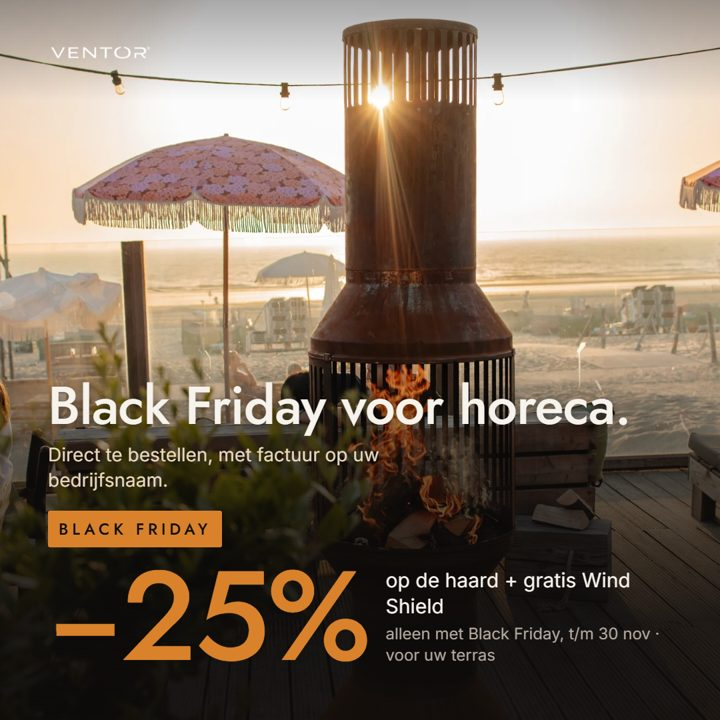
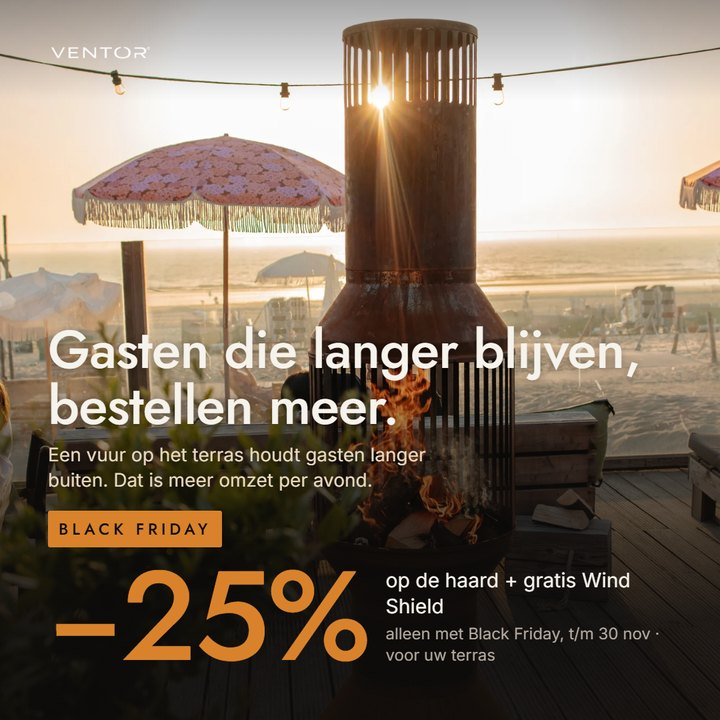
Meta voor Google; horeca-ads met omzet-hook (h04, h10 nieuw, teksten)

Changed region(s): [[0.0611, 0.4583, 0.8861, 0.7028]]

diff --git a/site/index.html b/site/index.html
@@ -335,7 +335,7 @@ html.verlopen .verlopen-melding{display:flex;min-height:100vh;align-items:center
 </head>
 <body>
 <div class="verlopen-melding"><p>Deze preview is verlopen.</p></div>
-<div class="top"><div class="wrap"><b>VENTOR®</b><nav><a href="#inhoud">Inhoud</a><a href="#wie">Wie koopt het</a><a href="#paginas">Salespages</a><a href="#google">Google Ads</a><a href="#meta">Meta Ads</a><a href="#planning">Planning</a></nav><span class="bf">Black Friday · 1 t/m 30 nov</span></div></div>
+<div class="top"><div class="wrap"><b>VENTOR®</b><nav><a href="#inhoud">Inhoud</a><a href="#wie">Wie koopt het</a><a href="#paginas">Salespages</a><a href="#meta">Meta Ads</a><a href="#google">Google Ads</a><a href="#planning">Planning</a></nav><span class="bf">Black Friday · 1 t/m 30 nov</span></div></div>
 
 <main>
 <header class="held"><div class="wrap">
@@ -351,8 +351,8 @@ html.verlopen .verlopen-melding{display:flex;min-height:100vh;align-items:center
   <div class="inhoud">
     <a href="#wie" class="ih"><span>1</span><b>Wie koopt het en waarom?</b><small>De twee kopers en wat ze drijft</small></a>
     <a href="#paginas" class="ih"><span>2</span><b>CRO: nieuwe salespages Black Friday</b><small>Consument en horeca</small></a>
-    <a href="#google" class="ih"><span>3</span><b>Google Ads</b><small>€2.000 · mensen die al zoeken</small></a>
-    <a href="#meta" class="ih"><span>4</span><b>Meta Ads</b><small>€4.000 · Facebook en Instagram</small></a>
+    <a href="#meta" class="ih"><span>3</span><b>Meta Ads</b><small>€4.000 · Facebook en Instagram</small></a>
+    <a href="#google" class="ih"><span>4</span><b>Google Ads</b><small>€2.000 · mensen die al zoeken</small></a>
     <a href="#planning" class="ih"><span>5</span><b>Planning</b><small>Feedback, start, evaluatie</small></a>
   </div>
 </div></section>
@@ -393,8 +393,44 @@ html.verlopen .verlopen-melding{display:flex;min-height:100vh;align-items:center
   </div>
 </div></section>
 
+<section id="meta"><div class="wrap">
+  <span class="label">3 · Meta Ads</span>
+  <h2>Meta Ads: mensen bereiken die nog niet zoeken</h2>
+  <p class="intro">Met Meta Ads op Facebook en Instagram bereiken we mensen in de doelgroep die nog niet actief zoeken. Ze zien de haard en de Black Friday-actie in hun feed, stories en reels. Zo maken we nieuwe vraag, en een deel daarvan zoekt later via Google verder. We starten met €4.000 voor november. Werkt een advertentie goed, dan verhogen we het budget: ook deze campagne is schaalbaar.</p>
+  <div class="chips" style="margin:-8px 0 8px"><span class="chip"><b>€4.000</b> advertentiebudget</span><span class="chip">Schaalbaar</span><span class="chip">2 t/m 30 november</span><span class="chip">Facebook en Instagram</span></div>
+  <div class="camps2">
+    <div class="blok"><span class="label">Voorstel · consument</span><h3>De Gastheer en de upgrader</h3><div class="bud"><b>€3.000</b><span>±€103 per dag</span></div><p>10 beeldadvertenties en 3 video's, in feed, stories en reels.</p></div>
+    <div class="blok"><span class="label">Voorstel · horeca</span><h3>De terras-ondernemer</h3><div class="bud"><b>€1.000</b><span>±€34 per dag</span></div><p>10 beeldadvertenties en 2 video's, gericht op horeca-ondernemers. De hook: gasten blijven langer zitten, en dat is meer omzet.</p></div>
+    <div class="blok donker"><span class="label">Schaalbaar</span><h3>Meer budget naar wat verkoopt</h3><p>Elke paar dagen kijken we naar de kosten per verkoop. De advertenties die het best verkopen krijgen meer budget, de rest zetten we uit.</p></div>
+  </div>
+</div></section>
+
+<section id="consument-ads" class="adsectie"><div class="wrap">
+  <span class="label">3 · Meta Ads · Consument</span>
+  <h2>Alle advertenties consument</h2>
+  <p class="intro">Tien beeldadvertenties met elk een eigen hook, steeds de haard groot in beeld, plus drie video’s van de eigen Instagram-reels. Zo zien ze eruit in de feed, met de echte tekst, kop en knop. Klik op een advertentie om hem groot te bekijken.</p>
+  <h3 class="sub">Feed <span>10 beeldadvertenties · 1:1</span></h3>
+  <div class="ads" id="consument-feed"></div>
+  <h3 class="sub">Stories en Reels <span>dezelfde 10 advertenties · 9:16</span></h3>
+  <div class="stories" id="consument-stories"></div>
+  <h3 class="sub">Video <span>3 video-advertenties · 9:16 · originele muziek</span></h3>
+  <div class="ads vads" id="consument-video"></div>
+</div></section>
+
+<section id="horeca-ads" class="adsectie"><div class="wrap">
+  <span class="label">3 · Meta Ads · Horeca</span>
+  <h2>Alle advertenties horeca</h2>
+  <p class="intro">Dezelfde opbouw voor horeca-ondernemers: tien beeldadvertenties in u-vorm en twee video’s van terrassen. Klik op een advertentie om hem groot te bekijken.</p>
+  <h3 class="sub">Feed <span>10 beeldadvertenties · 1:1</span></h3>
+  <div class="ads" id="horeca-feed"></div>
+  <h3 class="sub">Stories en Reels <span>dezelfde 10 advertenties · 9:16</span></h3>
+  <div class="stories" id="horeca-stories"></div>
+  <h3 class="sub">Video <span>2 video-advertenties · 9:16 · originele muziek</span></h3>
+  <div class="ads vads" id="horeca-video"></div>
+</div></section>
+
 <section id="google"><div class="wrap">
-  <span class="label">3 · Google Ads</span>
+  <span class="label">4 · Google Ads</span>
   <h2>Google Ads: direct verkeer van mensen die al zoeken</h2>
   <p class="intro">Met Google Ads staan we bovenaan bij mensen die nu al zoeken naar een buitenhaard, tuinhaard of houtkachel voor buiten. Zij hebben de koopbeslissing al half genomen, dus dit is direct verkeer met koopintentie. Elke advertentie draait om de Black Friday-actie. We starten met €2.000 voor november. Zijn de kosten per verkoop goed, dan verhogen we het budget: de campagne is schaalbaar.</p>
   <div class="chips" style="margin:-8px 0 8px"><span class="chip"><b>€2.000</b> advertentiebudget</span><span class="chip">Schaalbaar</span><span class="chip">2 t/m 30 november</span><span class="chip">3 campagnes</span><span class="chip">Klik vanaf <b>€0,40</b></span></div>
@@ -501,42 +537,6 @@ html.verlopen .verlopen-melding{display:flex;min-height:100vh;align-items:center
   </div>
 </div></section>
 
-<section id="meta"><div class="wrap">
-  <span class="label">4 · Meta Ads</span>
-  <h2>Meta Ads: mensen bereiken die nog niet zoeken</h2>
-  <p class="intro">Met Meta Ads op Facebook en Instagram bereiken we mensen in de doelgroep die nog niet actief zoeken. Ze zien de haard en de Black Friday-actie in hun feed, stories en reels. Zo maken we nieuwe vraag, en een deel daarvan zoekt later via Google verder. We starten met €4.000 voor november. Werkt een advertentie goed, dan verhogen we het budget: ook deze campagne is schaalbaar.</p>
-  <div class="chips" style="margin:-8px 0 8px"><span class="chip"><b>€4.000</b> advertentiebudget</span><span class="chip">Schaalbaar</span><span class="chip">2 t/m 30 november</span><span class="chip">Facebook en Instagram</span></div>
-  <div class="camps2">
-    <div class="blok"><span class="label">Voorstel · consument</span><h3>De Gastheer en de upgrader</h3><div class="bud"><b>€3.000</b><span>±€103 per dag</span></div><p>10 beeldadvertenties en 3 video's, in feed, stories en reels.</p></div>
-    <div class="blok"><span class="label">Voorstel · horeca</span><h3>De terras-ondernemer</h3><div class="bud"><b>€1.000</b><span>±€34 per dag</span></div><p>10 beeldadvertenties en 2 video's, gericht op horeca-ondernemers.</p></div>
-    <div class="blok donker"><span class="label">Schaalbaar</span><h3>Meer budget naar wat verkoopt</h3><p>Elke paar dagen kijken we naar de kosten per verkoop. De advertenties die het best verkopen krijgen meer budget, de rest zetten we uit.</p></div>
-  </div>
-</div></section>
-
-<section id="consument-ads" class="adsectie"><div class="wrap">
-  <span class="label">4 · Meta Ads · Consument</span>
-  <h2>Alle advertenties consument</h2>
-  <p class="intro">Tien beeldadvertenties met elk een eigen hook, steeds de haard groot in beeld, plus drie video’s van de eigen Instagram-reels. Zo zien ze eruit in de feed, met de echte tekst, kop en knop. Klik op een advertentie om hem groot te bekijken.</p>
-  <h3 class="sub">Feed <span>10 beeldadvertenties · 1:1</span></h3>
-  <div class="ads" id="consument-feed"></div>
-  <h3 class="sub">Stories en Reels <span>dezelfde 10 advertenties · 9:16</span></h3>
-  <div class="stories" id="consument-stories"></div>
-  <h3 class="sub">Video <span>3 video-advertenties · 9:16 · originele muziek</span></h3>
-  <div class="ads vads" id="consument-video"></div>
-</div></section>
-
-<section id="horeca-ads" class="adsectie"><div class="wrap">
-  <span class="label">4 · Meta Ads · Horeca</span>
-  <h2>Alle advertenties horeca</h2>
-  <p class="intro">Dezelfde opbouw voor horeca-ondernemers: tien beeldadvertenties in u-vorm en twee video’s van terrassen. Klik op een advertentie om hem groot te bekijken.</p>
-  <h3 class="sub">Feed <span>10 beeldadvertenties · 1:1</span></h3>
-  <div class="ads" id="horeca-feed"></div>
-  <h3 class="sub">Stories en Reels <span>dezelfde 10 advertenties · 9:16</span></h3>
-  <div class="stories" id="horeca-stories"></div>
-  <h3 class="sub">Video <span>2 video-advertenties · 9:16 · originele muziek</span></h3>
-  <div class="ads vads" id="horeca-video"></div>
-</div></section>
-
 
 
 <section id="planning"><div class="wrap">
@@ -556,7 +556,7 @@ html.verlopen .verlopen-melding{display:flex;min-height:100vh;align-items:center
 <footer><div class="wrap">Demo van Create &amp; Convert voor VENTOR® · concept, niet de echte winkel · online tot 22 november 2026 · <a href="https://claude.ai/artifact/CAF8osN9v2TcaTqFJEgg1Q">De klantpresentatie</a></div></footer>
 
 <script>
-var D={"consument": {"feed": [{"id": "c01", "hook": "Om 23:00 zit iedereen nog buiten.", "kop": "Black Friday: 25% korting", "beschr": "+ gratis Wind Shield", "tekst": "Het eten is op, de glazen zijn nog vol, en niemand wil naar binnen. De VENTOR® Original zet het vuur op ooghoogte, midden in je tuin. Alleen met Black Friday: 25% korting op de haard, en het Wind Shield krijg je er gratis bij. T/m 30 november."}, {"id": "c02", "hook": "Ruiken je kleren na een avond bij de vuurkorf?", "kop": "−25% op vuur zonder rook in je gezicht", "beschr": "+ gratis Wind Shield", "tekst": "Ruiken je kleren na een avond bij de vuurkorf? Dat komt doordat de rook op zithoogte vrijkomt. Bij de VENTOR® gaat hij door een schoorsteen van 40 cm breed en komt hij er op 220 cm uit, boven de hoofden. Alleen met Black Friday: −25% en een gratis Wind Shield."}, {"id": "c03", "hook": "Het vuur op ooghoogte. Iedereen schuift aan.", "kop": "Vuur op ooghoogte, nu −25%", "beschr": "Alleen met Black Friday", "tekst": "Bij een vuurkorf kijk je naar beneden. Bij de VENTOR® Original zit het vuur op ooghoogte, achter slanke lamellen, dus zittend en staand kijk je in de vlammen. Alleen met Black Friday: 25% korting + gratis Wind Shield."}, {"id": "c04", "hook": "De verlengde pijp zit er al op.", "kop": "De pijp zit er al op · −25%", "beschr": "+ gratis Wind Shield", "tekst": "Wie een tuinhaard heeft, kent het: een pijp erbij kopen omdat hij niet goed trekt. Bij de VENTOR® zit de schoorsteen er standaard op, 40 cm breed en tot 220 cm hoog. Alleen met Black Friday: 25% korting op de haard, met het Wind Shield gratis."}, {"id": "c05", "hook": "Je tuin is af. Op één ding na.", "kop": "Je tuin is af. Bijna.", "beschr": "−25% + gratis Wind Shield", "tekst": "Bestrating ligt, de lounge staat, de verlichting doet het. Wat ontbreekt is een plek waar iedereen 's avonds vanzelf gaat zitten. De VENTOR® Original: het vuur op ooghoogte, midden in je tuin. Nu 25% Black Friday-korting + gratis Wind Shield."}, {"id": "c06", "hook": "Met de jaren alleen maar mooier.", "kop": "Mooier met de jaren · −25%", "beschr": "Alleen t/m 30 november", "tekst": "De VENTOR® Original is van cortenstaal. Hij krijgt een warme roestkleur die elk jaar mooier wordt, en schilderen of behandelen hoeft nooit. Alleen met Black Friday: 25% korting, met het Wind Shield gratis erbij. T/m 30 november."}, {"id": "c07", "hook": "Het middelpunt van elke avond.", "kop": "Het middelpunt van je tuin · −25%", "beschr": "+ gratis Wind Shield", "tekst": "220 cm hoog, het vuur op ooghoogte en van alle kanten te zien. De VENTOR® Original is het middelpunt van elke avond in de tuin. Alleen met Black Friday: −25% + gratis Wind Shield."}, {"id": "c08", "hook": "Vuur van alle kanten. Geen achterkant.", "kop": "Vuur van alle kanten · −25%", "beschr": "+ gratis Wind Shield", "tekst": "Geen achterkant, geen slechte plek. Slanke lamellen rondom de vuurkamer, dus vanuit elke stoel zie je de vlammen. Alleen met Black Friday: 25% korting op de VENTOR® Original + gratis Wind Shield."}, {"id": "c09", "hook": "Dit is geen vuurkorf.", "kop": "Dit is geen vuurkorf · −25%", "beschr": "+ gratis Wind Shield", "tekst": "Een vuurkorf staat op de grond en de rook gaat waar de wind hem heen blaast. De VENTOR® Original is een buitenhaard van 220 cm, met het vuur op ooghoogte en een schoorsteen die trekt. Alleen met Black Friday: −25% + gratis Wind Shield."}, {"id": "c10", "hook": "Black Friday bij VENTOR®.", "kop": "Black Friday: 25% korting", "beschr": "+ gratis Wind Shield t.w.v. €274", "tekst": "Black Friday bij VENTOR®: 25% korting op de Original, en het Wind Shield (t.w.v. €274) krijg je er gratis bij. De buitenhaard met het vuur op ooghoogte, handgemaakt in Nederland. Alleen t/m 30 november."}], "video": [{"naam": "ventor-bf-video-c1-avond", "lengte": "10,2 s", "kop": "Black Friday: 25% korting", "beschr": "+ gratis Wind Shield", "tekst": "Om 23:00 zit iedereen nog buiten. Het eten is op, de glazen zijn nog vol, en het vuur brandt op ooghoogte. Alleen met Black Friday: 25% korting op de VENTOR® Original, en het Wind Shield krijg je er gratis bij. T/m 30 november."}, {"naam": "ventor-bf-video-c2-vlammen", "lengte": "8,1 s", "kop": "Vuur op ooghoogte, nu −25%", "beschr": "+ gratis Wind Shield", "tekst": "Een groot, levendig vuur achter slanke lamellen, op ooghoogte. Zittend en staand kijk je in de vlammen, en de rook gaat via de schoorsteen omhoog. Alleen met Black Friday: 25% korting + gratis Wind Shield."}, {"naam": "ventor-bf-video-c3-tuin", "lengte": "7,0 s", "kop": "Je tuin is af. Bijna. · −25%", "beschr": "+ gratis Wind Shield", "tekst": "Je tuin is af. Op één ding na: een plek waar iedereen 's avonds vanzelf gaat zitten. De VENTOR® Original, 220 cm cortenstaal met het vuur op ooghoogte. Alleen met Black Friday: −25% + gratis Wind Shield."}]}, "horeca": {"feed": [{"id": "h01", "hook": "Het terras waar gasten blijven zitten.", "kop": "Black Friday voor horeca: −25%", "beschr": "+ gratis Wind Shield", "tekst": "Een terras met een vuur in het midden. De VENTOR® Original zet het vuur op ooghoogte, met lamellen rondom, dus elke tafel kijkt erin. Alleen met Black Friday: 25% korting op de haard en een gratis Wind Shield. T/m 30 november."}, {"id": "h02", "hook": "Uw terras ook in maart en oktober.", "kop": "Uw terras ook in maart · −25%", "beschr": "+ gratis Wind Shield", "tekst": "Een heater geeft warmte. Een vuur geeft uw gasten ook iets om naar te kijken. De VENTOR® Original staat het hele jaar buiten, van cortenstaal zonder onderhoud. Alleen met Black Friday: −25% + gratis Wind Shield."}, {"id": "h03", "hook": "Gebouwd voor elke dag op een druk terras.", "kop": "Gebouwd voor het terras · −25%", "beschr": "Direct te bestellen", "tekst": "Cortenstaal, een vuurplaat van 10 mm, een vonkenvanger en optioneel op wielen. De VENTOR® Original is gebouwd voor dagelijks gebruik op het terras. Alleen met Black Friday: 25% korting en een gratis Wind Shield."}, {"id": "h04", "hook": "Black Friday voor horeca.", "kop": "−25% + gratis Wind Shield", "beschr": "Factuur op uw bedrijfsnaam", "tekst": "Black Friday voor horeca: 25% korting op de VENTOR® Original en een gratis Wind Shield bij elke haard. Direct te bestellen, met factuur op uw bedrijfsnaam. Alleen t/m 30 november."}, {"id": "h05", "hook": "Het vuur op ooghoogte. Elke tafel kijkt erin.", "kop": "Elke tafel aan het vuur · −25%", "beschr": "+ gratis Wind Shield", "tekst": "Het vuur van de VENTOR® Original brandt op ooghoogte, achter slanke lamellen. Zo kijkt elke tafel in de vlammen en is er geen slechte plek op uw terras. Alleen met Black Friday: −25% + gratis Wind Shield."}, {"id": "h06", "hook": "De rook gaat boven uw gasten weg.", "kop": "Rook boven de tafels · −25%", "beschr": "Alleen met Black Friday", "tekst": "Bij een vuurkorf hangt de rook tussen de tafels. Bij de VENTOR® Original gaat hij door een schoorsteen van 40 cm breed en komt hij er op 220 cm uit, boven uw gasten. Alleen met Black Friday: −25% + gratis Wind Shield."}, {"id": "h07", "hook": "Eén vuur, tafels rondom.", "kop": "Eén vuur, tafels rondom · −25%", "beschr": "+ gratis Wind Shield", "tekst": "Eén haard in het midden, tafels eromheen. 360° zicht op het vuur, op ooghoogte, en gebouwd om elke dag buiten te staan. Alleen met Black Friday: 25% korting + gratis Wind Shield."}, {"id": "h08", "hook": "Het middelpunt van uw terras.", "kop": "Het middelpunt van uw terras", "beschr": "−25% + gratis Wind Shield", "tekst": "220 cm cortenstaal met het vuur op ooghoogte. De VENTOR® Original is het middelpunt van uw terras, en het eerste wat gasten zien. Alleen met Black Friday: −25% + gratis Wind Shield."}, {"id": "h09", "hook": "Warmte waar uw gasten omheen gaan zitten.", "kop": "Warmte én een vuur · −25%", "beschr": "Direct te bestellen", "tekst": "Een heater geeft warmte. De VENTOR® geeft ook een vuur om naar te kijken, midden tussen de tafels. Handgemaakt in Nederland van cortenstaal. Alleen met Black Friday: −25% + gratis Wind Shield. Direct te bestellen."}, {"id": "h10", "hook": "Black Friday voor uw terras.", "kop": "Black Friday voor uw terras", "beschr": "Gratis Wind Shield bij elke haard", "tekst": "Black Friday voor uw terras: 25% korting op de VENTOR® Original, en bij elke haard een gratis Wind Shield. Alleen t/m 30 november."}], "video": [{"naam": "ventor-bf-video-h1-papas", "lengte": "11,7 s", "kop": "Black Friday voor horeca: −25%", "beschr": "+ gratis Wind Shield", "tekst": "Het terras waar gasten blijven zitten. Bij Papas Beach House staat de VENTOR® Original midden tussen de loungeplekken. Alleen met Black Friday: 25% korting en een gratis Wind Shield bij elke haard. Direct te bestellen, met factuur op uw bedrijfsnaam."}, {"naam": "ventor-bf-video-h2-tafels", "lengte": "7,8 s", "kop": "Elke tafel aan het vuur · −25%", "beschr": "Direct te bestellen", "tekst": "Eén vuur midden tussen de tafels, op ooghoogte en met 360° zicht. Zo kijkt elke tafel in de vlammen. Alleen met Black Friday: −25% op de VENTOR® Original + gratis Wind Shield. T/m 30 november."}]}};
+var D={"consument": {"feed": [{"id": "c01", "hook": "Om 23:00 zit iedereen nog buiten.", "kop": "Black Friday: 25% korting", "beschr": "+ gratis Wind Shield", "tekst": "Het eten is op, de glazen zijn nog vol, en niemand wil naar binnen. De VENTOR® Original zet het vuur op ooghoogte, midden in je tuin. Alleen met Black Friday: 25% korting op de haard, en het Wind Shield krijg je er gratis bij. T/m 30 november."}, {"id": "c02", "hook": "Ruiken je kleren na een avond bij de vuurkorf?", "kop": "−25% op vuur zonder rook in je gezicht", "beschr": "+ gratis Wind Shield", "tekst": "Ruiken je kleren na een avond bij de vuurkorf? Dat komt doordat de rook op zithoogte vrijkomt. Bij de VENTOR® gaat hij door een schoorsteen van 40 cm breed en komt hij er op 220 cm uit, boven de hoofden. Alleen met Black Friday: −25% en een gratis Wind Shield."}, {"id": "c03", "hook": "Het vuur op ooghoogte. Iedereen schuift aan.", "kop": "Vuur op ooghoogte, nu −25%", "beschr": "Alleen met Black Friday", "tekst": "Bij een vuurkorf kijk je naar beneden. Bij de VENTOR® Original zit het vuur op ooghoogte, achter slanke lamellen, dus zittend en staand kijk je in de vlammen. Alleen met Black Friday: 25% korting + gratis Wind Shield."}, {"id": "c04", "hook": "De verlengde pijp zit er al op.", "kop": "De pijp zit er al op · −25%", "beschr": "+ gratis Wind Shield", "tekst": "Wie een tuinhaard heeft, kent het: een pijp erbij kopen omdat hij niet goed trekt. Bij de VENTOR® zit de schoorsteen er standaard op, 40 cm breed en tot 220 cm hoog. Alleen met Black Friday: 25% korting op de haard, met het Wind Shield gratis."}, {"id": "c05", "hook": "Je tuin is af. Op één ding na.", "kop": "Je tuin is af. Bijna.", "beschr": "−25% + gratis Wind Shield", "tekst": "Bestrating ligt, de lounge staat, de verlichting doet het. Wat ontbreekt is een plek waar iedereen 's avonds vanzelf gaat zitten. De VENTOR® Original: het vuur op ooghoogte, midden in je tuin. Nu 25% Black Friday-korting + gratis Wind Shield."}, {"id": "c06", "hook": "Met de jaren alleen maar mooier.", "kop": "Mooier met de jaren · −25%", "beschr": "Alleen t/m 30 november", "tekst": "De VENTOR® Original is van cortenstaal. Hij krijgt een warme roestkleur die elk jaar mooier wordt, en schilderen of behandelen hoeft nooit. Alleen met Black Friday: 25% korting, met het Wind Shield gratis erbij. T/m 30 november."}, {"id": "c07", "hook": "Het middelpunt van elke avond.", "kop": "Het middelpunt van je tuin · −25%", "beschr": "+ gratis Wind Shield", "tekst": "220 cm hoog, het vuur op ooghoogte en van alle kanten te zien. De VENTOR® Original is het middelpunt van elke avond in de tuin. Alleen met Black Friday: −25% + gratis Wind Shield."}, {"id": "c08", "hook": "Vuur van alle kanten. Geen achterkant.", "kop": "Vuur van alle kanten · −25%", "beschr": "+ gratis Wind Shield", "tekst": "Geen achterkant, geen slechte plek. Slanke lamellen rondom de vuurkamer, dus vanuit elke stoel zie je de vlammen. Alleen met Black Friday: 25% korting op de VENTOR® Original + gratis Wind Shield."}, {"id": "c09", "hook": "Dit is geen vuurkorf.", "kop": "Dit is geen vuurkorf · −25%", "beschr": "+ gratis Wind Shield", "tekst": "Een vuurkorf staat op de grond en de rook gaat waar de wind hem heen blaast. De VENTOR® Original is een buitenhaard van 220 cm, met het vuur op ooghoogte en een schoorsteen die trekt. Alleen met Black Friday: −25% + gratis Wind Shield."}, {"id": "c10", "hook": "Black Friday bij VENTOR®.", "kop": "Black Friday: 25% korting", "beschr": "+ gratis Wind Shield t.w.v. €274", "tekst": "Black Friday bij VENTOR®: 25% korting op de Original, en het Wind Shield (t.w.v. €274) krijg je er gratis bij. De buitenhaard met het vuur op ooghoogte, handgemaakt in Nederland. Alleen t/m 30 november."}], "video": [{"naam": "ventor-bf-video-c1-avond", "lengte": "10,2 s", "kop": "Black Friday: 25% korting", "beschr": "+ gratis Wind Shield", "tekst": "Om 23:00 zit iedereen nog buiten. Het eten is op, de glazen zijn nog vol, en het vuur brandt op ooghoogte. Alleen met Black Friday: 25% korting op de VENTOR® Original, en het Wind Shield krijg je er gratis bij. T/m 30 november."}, {"naam": "ventor-bf-video-c2-vlammen", "lengte": "8,1 s", "kop": "Vuur op ooghoogte, nu −25%", "beschr": "+ gratis Wind Shield", "tekst": "Een groot, levendig vuur achter slanke lamellen, op ooghoogte. Zittend en staand kijk je in de vlammen, en de rook gaat via de schoorsteen omhoog. Alleen met Black Friday: 25% korting + gratis Wind Shield."}, {"naam": "ventor-bf-video-c3-tuin", "lengte": "7,0 s", "kop": "Je tuin is af. Bijna. · −25%", "beschr": "+ gratis Wind Shield", "tekst": "Je tuin is af. Op één ding na: een plek waar iedereen 's avonds vanzelf gaat zitten. De VENTOR® Original, 220 cm cortenstaal met het vuur op ooghoogte. Alleen met Black Friday: −25% + gratis Wind Shield."}]}, "horeca": {"feed": [{"id": "h01", "hook": "Het terras waar gasten blijven zitten.", "kop": "Black Friday voor horeca: −25%", "beschr": "+ gratis Wind Shield", "tekst": "Een terras met een vuur in het midden. De VENTOR® Original zet het vuur op ooghoogte, met lamellen rondom, dus elke tafel kijkt erin. Gasten blijven langer zitten, en wie langer blijft, bestelt meer. Alleen met Black Friday: 25% korting op de haard en een gratis Wind Shield. T/m 30 november."}, {"id": "h02", "hook": "Uw terras ook in maart en oktober.", "kop": "Uw terras ook in maart · −25%", "beschr": "+ gratis Wind Shield", "tekst": "Een heater geeft warmte. Een vuur geeft uw gasten ook iets om naar te kijken. De VENTOR® Original staat het hele jaar buiten, van cortenstaal zonder onderhoud. Alleen met Black Friday: −25% + gratis Wind Shield."}, {"id": "h03", "hook": "Gebouwd voor elke dag op een druk terras.", "kop": "Gebouwd voor het terras · −25%", "beschr": "Direct te bestellen", "tekst": "Cortenstaal, een vuurplaat van 10 mm, een vonkenvanger en optioneel op wielen. De VENTOR® Original is gebouwd voor dagelijks gebruik op het terras. Alleen met Black Friday: 25% korting en een gratis Wind Shield."}, {"id": "h04", "hook": "Gasten die langer blijven, bestellen meer.", "kop": "Meer omzet per tafel · −25%", "beschr": "+ gratis Wind Shield", "tekst": "Gasten die bij het vuur zitten, blijven langer. En wie langer blijft, bestelt nog een rondje. De VENTOR® Original zet het vuur op ooghoogte, midden op uw terras. Alleen met Black Friday: 25% korting op de haard en een gratis Wind Shield bij elke haard. Direct te bestellen, met factuur op uw bedrijfsnaam."}, {"id": "h05", "hook": "Het vuur op ooghoogte. Elke tafel kijkt erin.", "kop": "Elke tafel aan het vuur · −25%", "beschr": "+ gratis Wind Shield", "tekst": "Het vuur van de VENTOR® Original brandt op ooghoogte, achter slanke lamellen. Zo kijkt elke tafel in de vlammen en is er geen slechte plek op uw terras. Alleen met Black Friday: −25% + gratis Wind Shield."}, {"id": "h06", "hook": "De rook gaat boven uw gasten weg.", "kop": "Rook boven de tafels · −25%", "beschr": "Alleen met Black Friday", "tekst": "Bij een vuurkorf hangt de rook tussen de tafels. Bij de VENTOR® Original gaat hij door een schoorsteen van 40 cm breed en komt hij er op 220 cm uit, boven uw gasten. Alleen met Black Friday: −25% + gratis Wind Shield."}, {"id": "h07", "hook": "Eén vuur, tafels rondom.", "kop": "Eén vuur, tafels rondom · −25%", "beschr": "+ gratis Wind Shield", "tekst": "Eén haard in het midden, tafels eromheen. 360° zicht op het vuur, op ooghoogte, en gebouwd om elke dag buiten te staan. Alleen met Black Friday: 25% korting + gratis Wind Shield."}, {"id": "h08", "hook": "Het middelpunt van uw terras.", "kop": "Het middelpunt van uw terras", "beschr": "−25% + gratis Wind Shield", "tekst": "220 cm cortenstaal met het vuur op ooghoogte. De VENTOR® Original is het middelpunt van uw terras, en het eerste wat gasten zien. Alleen met Black Friday: −25% + gratis Wind Shield."}, {"id": "h09", "hook": "Warmte waar uw gasten omheen gaan zitten.", "kop": "Warmte én een vuur · −25%", "beschr": "Direct te bestellen", "tekst": "Een heater geeft warmte. De VENTOR® geeft ook een vuur om naar te kijken, midden tussen de tafels. Handgemaakt in Nederland van cortenstaal. Alleen met Black Friday: −25% + gratis Wind Shield. Direct te bestellen."}, {"id": "h10", "hook": "Meer omzet op uw terras.", "kop": "Meer omzet op uw terras · −25%", "beschr": "Gratis Wind Shield bij elke haard", "tekst": "Een vuur houdt uw gasten langer op het terras, ook in maart en oktober. Langer zitten betekent meer omzet per avond. Black Friday voor uw terras: 25% korting op de VENTOR® Original, en bij elke haard een gratis Wind Shield. Alleen t/m 30 november."}], "video": [{"naam": "ventor-bf-video-h1-papas", "lengte": "11,7 s", "kop": "Black Friday voor horeca: −25%", "beschr": "+ gratis Wind Shield", "tekst": "Het terras waar gasten blijven zitten, en dus meer bestellen. Bij Papas Beach House staat de VENTOR® Original midden tussen de loungeplekken. Alleen met Black Friday: 25% korting en een gratis Wind Shield bij elke haard. Direct te bestellen, met factuur op uw bedrijfsnaam."}, {"naam": "ventor-bf-video-h2-tafels", "lengte": "7,8 s", "kop": "Elke tafel aan het vuur · −25%", "beschr": "Direct te bestellen", "tekst": "Eén vuur midden tussen de tafels, op ooghoogte en met 360° zicht. Zo kijkt elke tafel in de vlammen. Alleen met Black Friday: −25% op de VENTOR® Original + gratis Wind Shield. T/m 30 november."}]}};
 function esc(t){var d=document.createElement('div');d.textContent=t;return d.innerHTML}
 function kaart(a,media){
   return '<article class="ad"><div class="kop1"><div class="logo" aria-hidden="true">V</div><div class="naam">VENTOR<small>Gesponsord</small></div><span class="nr">'+esc(a.id)+'</span></div>'+
